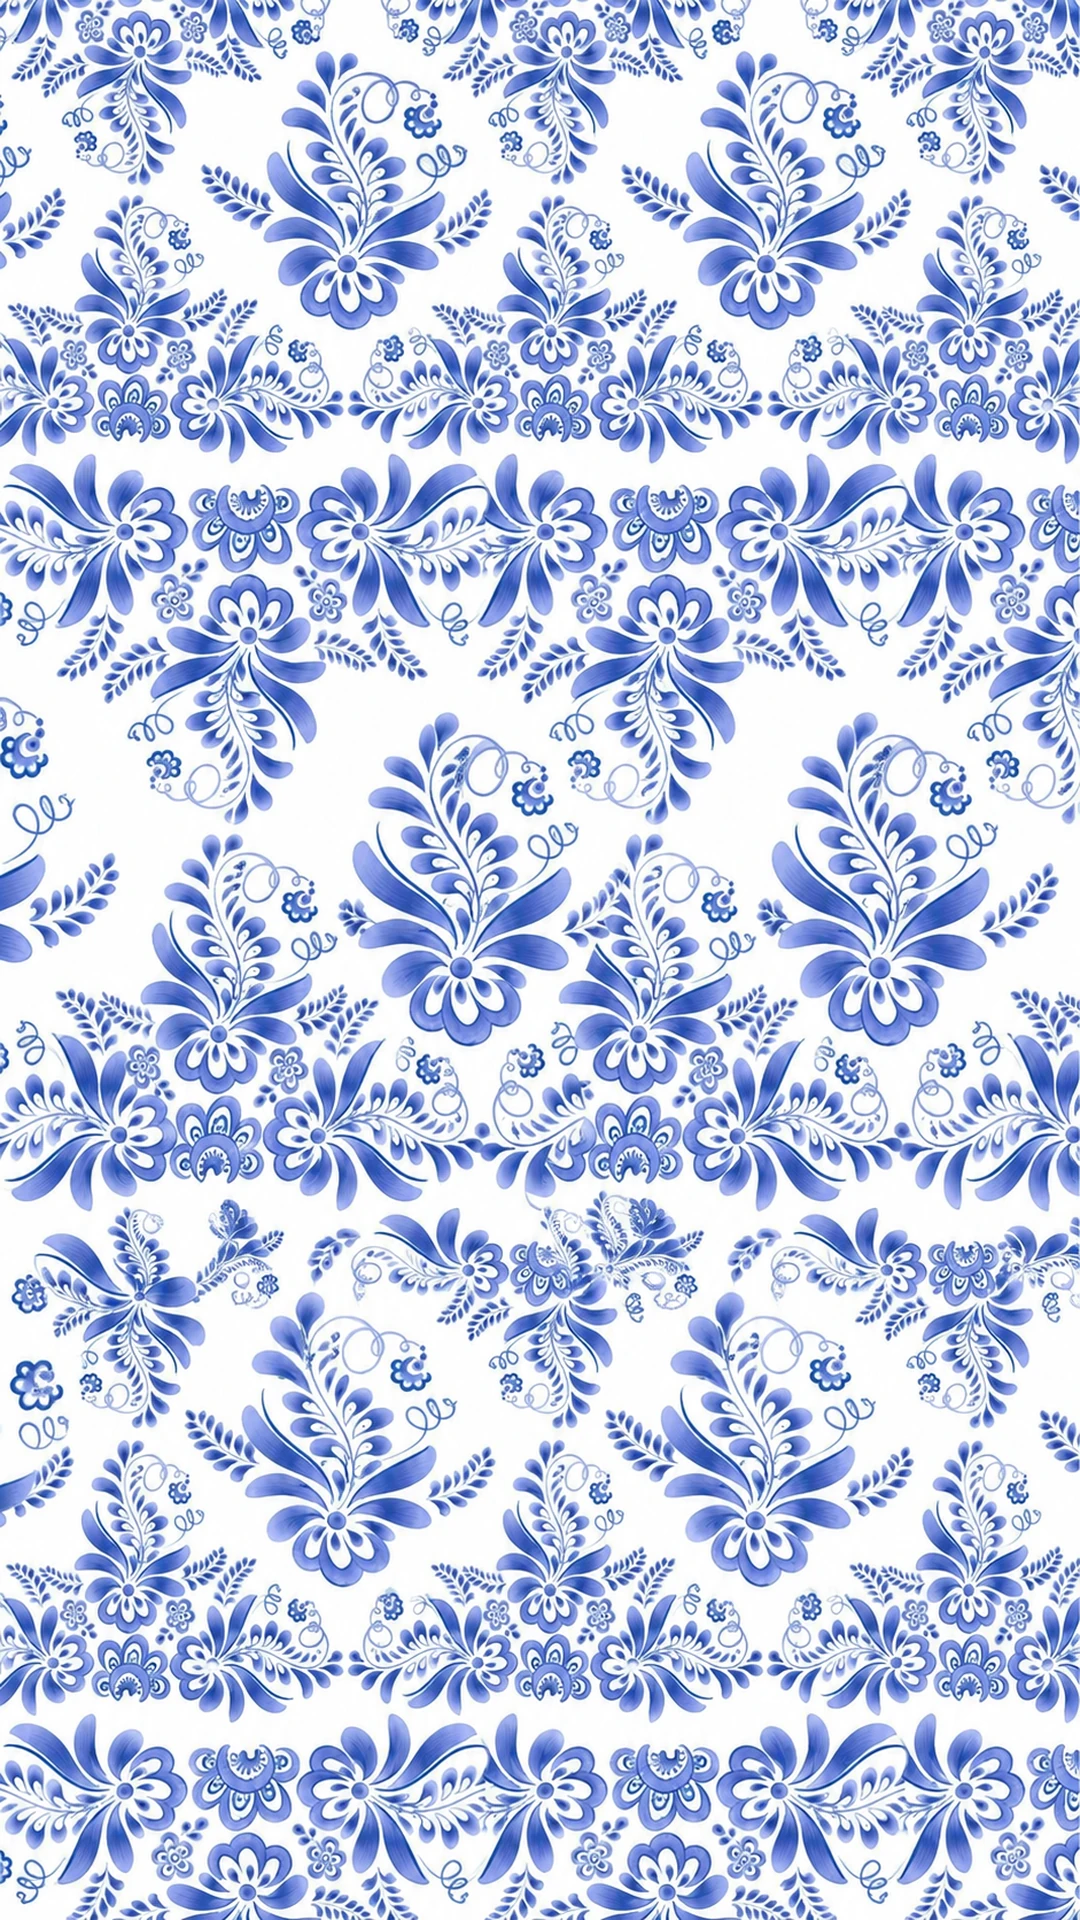
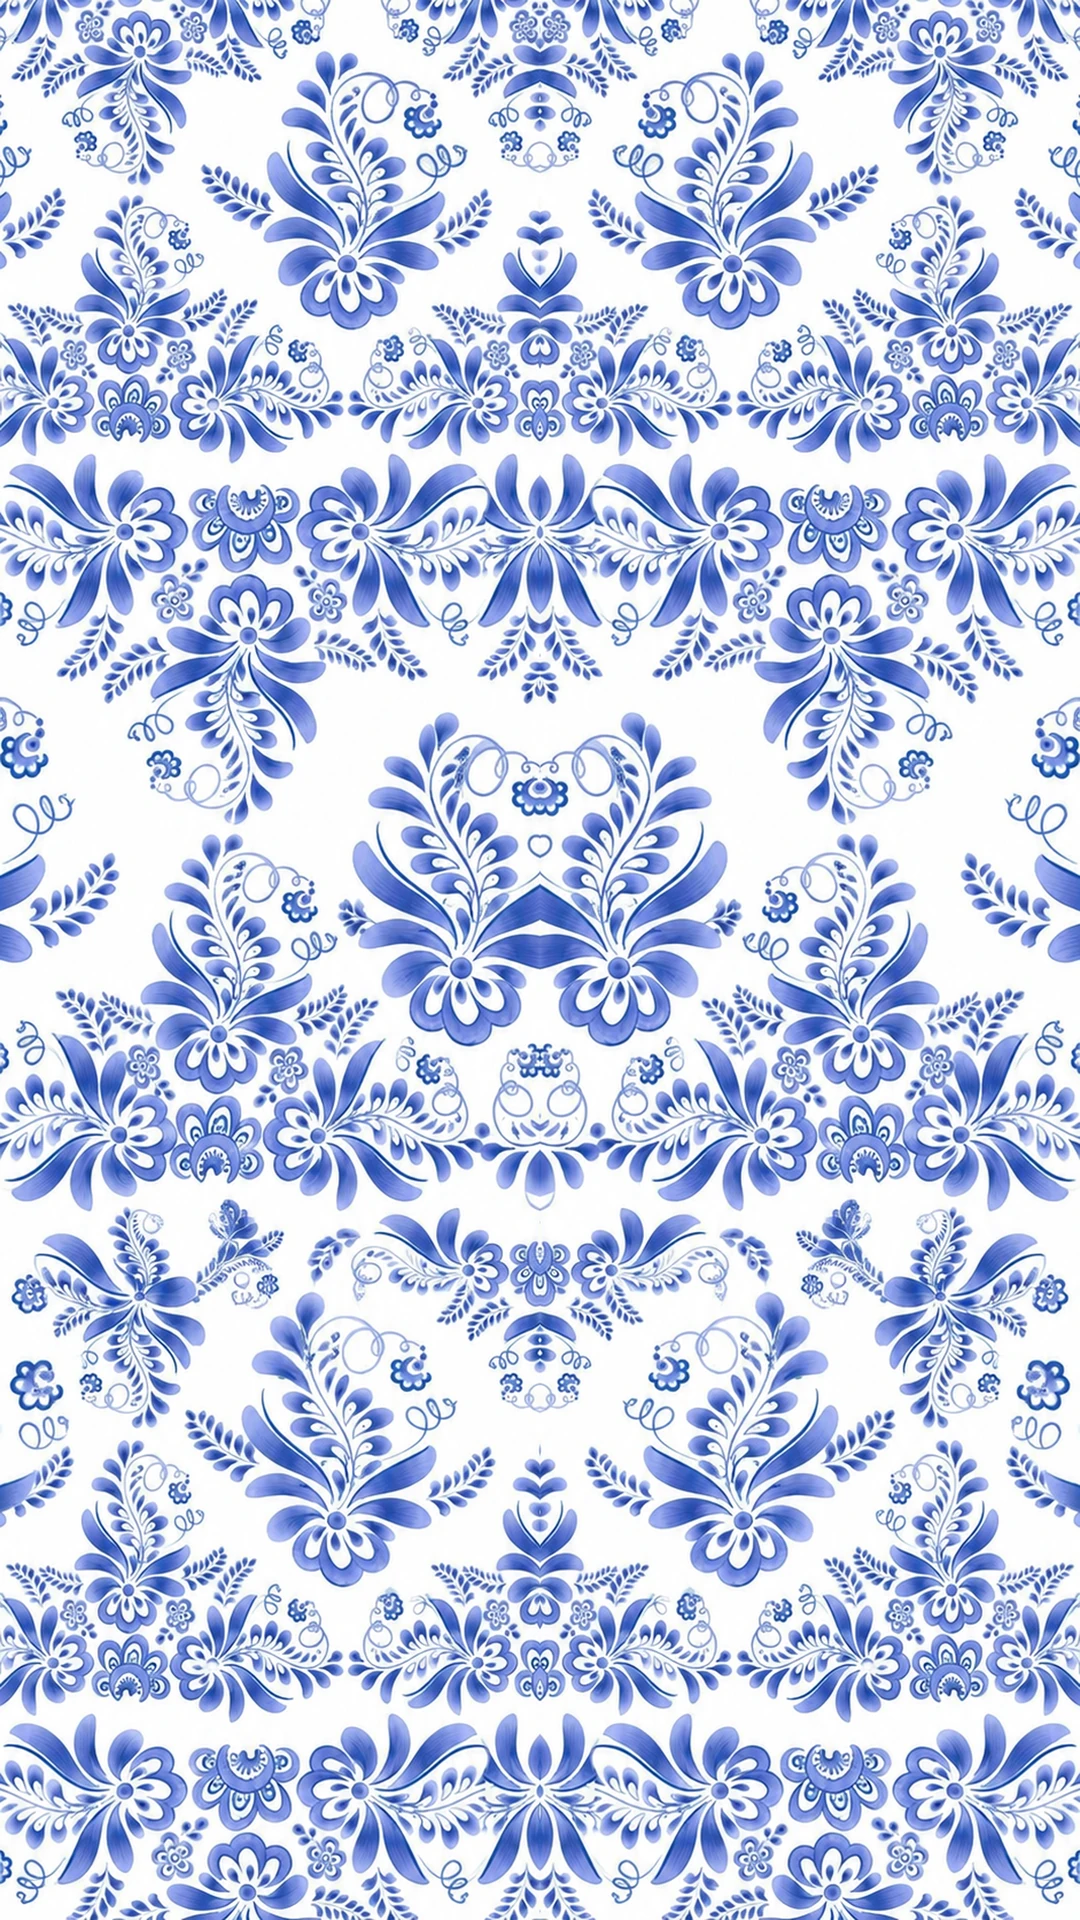
fix(shop): replace blue floral with symmetric artwork

diff --git a/sw.js b/sw.js
@@ -7,7 +7,7 @@
 // new CACHE version, which downloads them again on install. So the game starts
 // without re-downloading megabytes, online or not.
 
-const CACHE = 'filword-v53';
+const CACHE = 'filword-v54';
 // Every file the game needs. On the very first visit modules load before the
 // worker starts, so they must be listed here to work offline (a test checks it).
 const CORE = ['./', 'index.html', 'style.css', 'manifest.webmanifest', 'data/words.json.gz',

diff --git a/src/game.js b/src/game.js
@@ -45,7 +45,7 @@ const STORAGE_KEY = CFG.stateKey;
 const BOARD_SIZE = CFG.size;
 // Shown in the menu, so it is easy to tell which version a phone runs.
 // Must match CACHE in sw.js (a test checks it).
-export const VERSION = 53;
+export const VERSION = 54;
 const STATS_KEY = CFG.statsKey;
 // Only the middle part of a cell reacts to the finger. Crossing a corner
 // between cells would otherwise pick a diagonal neighbour by accident.
